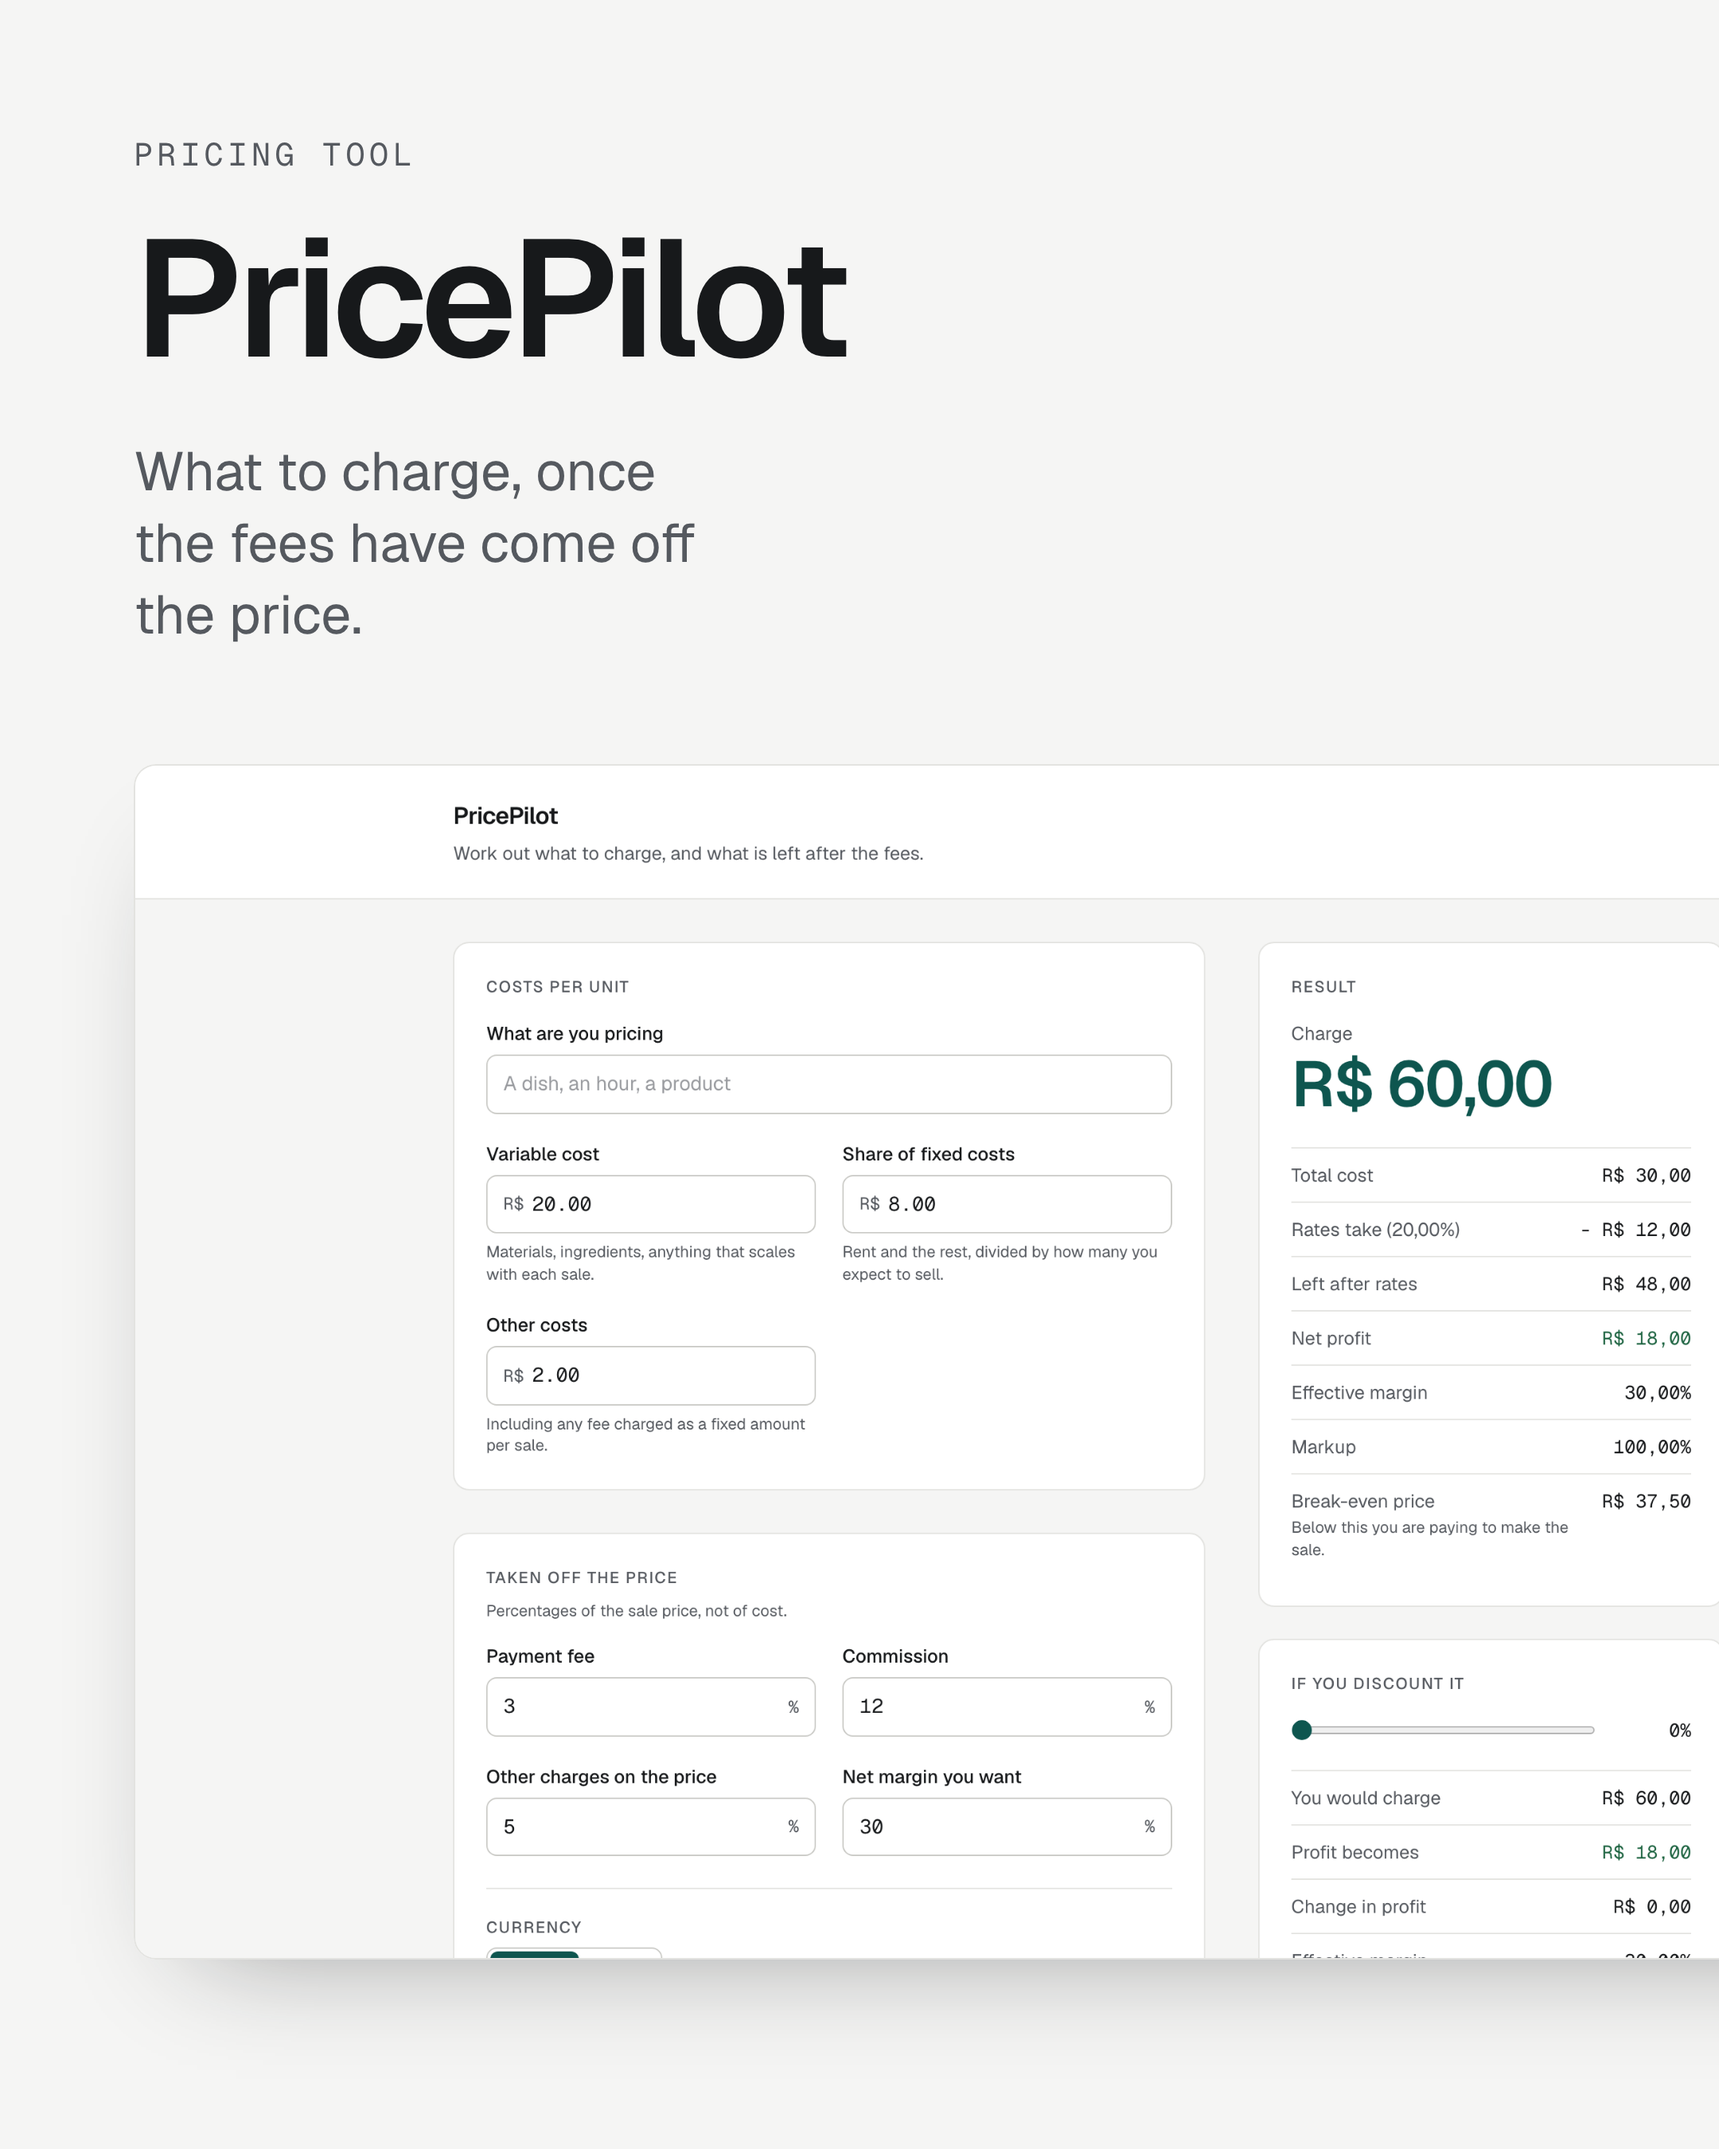
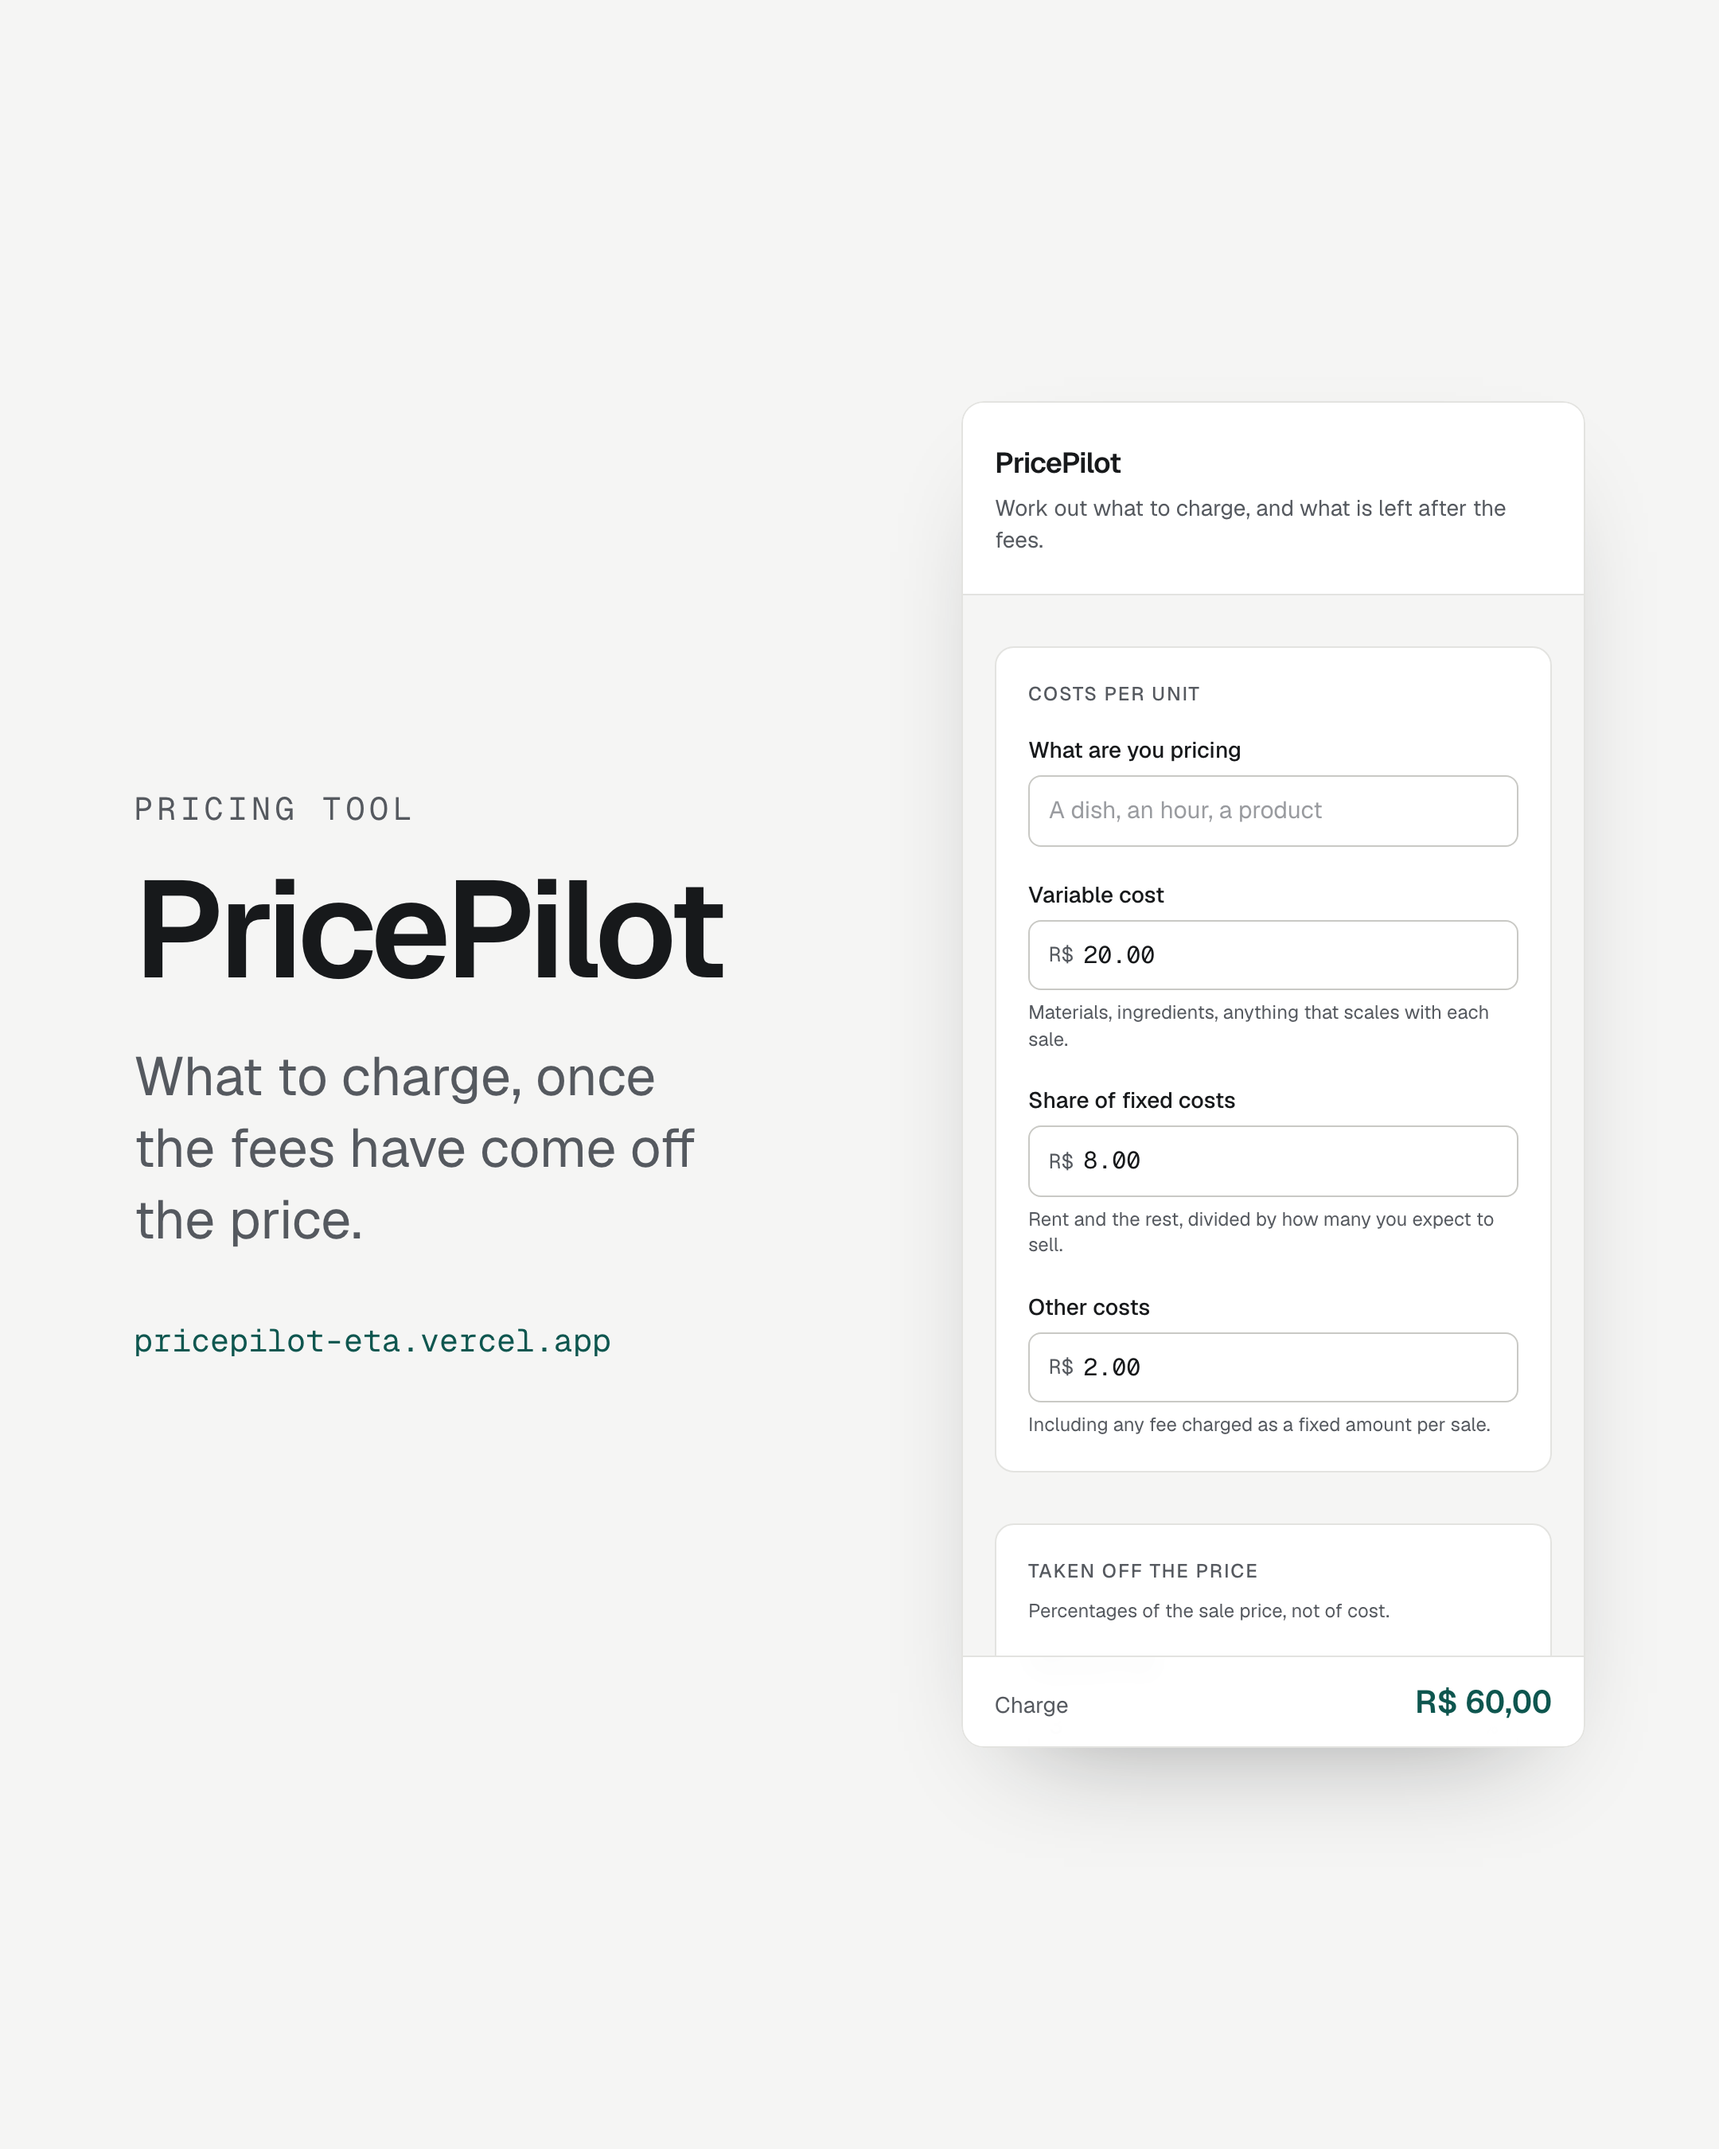
feat: let the accent carry the page instead of appearing once
The interface was near-monochrome: a neutral grey ground with one teal
figure on it. The accent now works in four weights, and the single figure
the tool exists to produce sits in a solid field of it rather than in one
more white card.

- The ground is a paper with a faint teal cast rather than a neutral grey.
- The result panel is inverted onto deep teal: the price in a bright mint,
  the ledger rows in white on the dark field.
- The discount panel is tinted, because it belongs to the result rather
  than to the form.
- The mobile price bar carries the same deep field as the panel whose
  figure it repeats.
- The header opens on an accent rule.

Every pair was measured against WCAG before it was written: 20
foreground/background combinations, the worst at 5.08 against a 4.5
requirement. Two colours needed replacing as a result — the semantic green
and red both fail on the deep field, so good news there is the bright
accent and bad news is a light red that clears AA at 6.90.

Also removed the opacity-based text colours I had reached for first. A
colour expressed as "token at 80%" is hard to verify and easy to get wrong;
these are explicit tokens now.

verify:ui passes at 1440, 768, 390 and 320: zero axe violations, no
overflow, no console output, behaviour unchanged. 77 tests pass.

diff --git a/src/components/results/ResultsPanel.tsx b/src/components/results/ResultsPanel.tsx
@@ -14,8 +14,15 @@ function Row({
   value: string;
   tone?: 'neutral' | 'positive' | 'negative';
 }) {
+  /* On the deep field the semantic greens and reds would fail contrast, so
+     good news is the bright accent and bad news is a light red that clears
+     AA against it. Neutral figures are plain white. */
   const toneClass =
-    tone === 'positive' ? 'text-positive' : tone === 'negative' ? 'text-negative' : 'text-ink';
+    tone === 'positive'
+      ? 'text-accent-bright'
+      : tone === 'negative'
+        ? 'text-on-deep-bad'
+        : 'text-white';
 
   return (
     /*
@@ -27,7 +34,7 @@ function Row({
      * broken definition list.
      */
     <div className="flex items-baseline justify-between gap-4 py-2.5">
-      <dt className="min-w-0 text-sm text-muted">
+      <dt className="min-w-0 text-sm text-on-deep-dim">
         {label}
         {hint ? <span className="mt-0.5 block text-xs leading-snug">{hint}</span> : null}
       </dt>
@@ -51,38 +58,38 @@ export default function ResultsPanel({
   const { currency } = input;
 
   return (
-    <section className="panel p-5 sm:p-6" aria-live="polite">
-      <h2 className="section-title">{t.results.legend}</h2>
+    <section className="panel-deep p-5 sm:p-6" aria-live="polite">
+      <h2 className="section-title text-on-deep-dim">{t.results.legend}</h2>
 
       {problems.length > 0 ? (
-        <div className="mt-4 rounded-field border border-negative/30 bg-negative/5 p-4">
+        <div className="mt-4 rounded-field border border-white/25 bg-white/10 p-4">
           {problems.map((problem) => (
             <p
               key={problem.code}
               data-testid="engine-problem"
-              className="text-sm leading-relaxed text-negative"
+              className="text-sm leading-relaxed text-white"
             >
               {problem.message}
             </p>
           ))}
         </div>
       ) : !priceable || !result ? (
-        <p className="mt-4 text-sm text-muted">{t.results.empty}</p>
+        <p className="mt-4 text-sm text-on-deep-dim">{t.results.empty}</p>
       ) : (
         <>
           {/* The one figure the whole tool exists to produce, sized to say so. */}
           <div className="mt-4">
-            <div className="text-sm text-muted">{t.results.suggestedPrice}</div>
+            <div className="text-sm text-on-deep-dim">{t.results.suggestedPrice}</div>
             <div
               data-testid="suggested-price"
-              className="mt-1 text-4xl font-semibold leading-none tracking-tight text-accent sm:text-5xl"
+              className="mt-1 text-4xl font-semibold leading-none tracking-tight text-accent-bright sm:text-5xl"
             >
               {formatMoney(result.suggestedPrice, currency)}
             </div>
-            {input.name ? <p className="mt-2 text-sm text-muted">{input.name}</p> : null}
+            {input.name ? <p className="mt-2 text-sm text-on-deep-dim">{input.name}</p> : null}
           </div>
 
-          <dl className="mt-6 divide-y divide-line border-t border-line">
+          <dl className="mt-6 divide-y divide-white/15 border-t border-white/15">
             <Row
               label={t.results.totalCost}
               value={formatMoney(result.totalCost, currency)}

diff --git a/src/index.css b/src/index.css
@@ -13,23 +13,36 @@
   --font-sans: 'Geist Variable', ui-sans-serif, system-ui, sans-serif;
   --font-mono: 'Geist Mono Variable', ui-monospace, 'SFMono-Regular', monospace;
 
-  /* Ground and structure. A near-neutral grey, no warm-craft beige. */
-  --color-paper: #f5f5f4;
+  /*
+   * Ground and structure. A paper with a faint teal cast rather than a
+   * neutral grey: the page reads as a made thing instead of a default.
+   */
+  --color-paper: #eceff0;
   --color-surface: #ffffff;
-  --color-line: #e3e3e0;
-  --color-line-strong: #c9c9c5;
+  --color-line: #dde3e2;
+  --color-line-strong: #b9c4c2;
 
-  /* Text. Both greys clear AA on paper and on surface. */
-  --color-ink: #17191b;
-  --color-muted: #55595f;
+  /* Text. Both clear AA on paper, on surface and on the tinted row. */
+  --color-ink: #15201f;
+  --color-muted: #4d5a58;
 
-  /* One accent: a deep teal. Used for the single primary figure and focus. */
-  --color-accent: #0e564f;
-  --color-accent-soft: #e7efed;
+  /*
+   * One accent, in four weights. The deep weight is a field the result sits
+   * in, not an outline — the single figure the tool exists to produce gets a
+   * solid plane of colour, and everything else stays quiet around it.
+   */
+  --color-accent: #0b5349;
+  --color-accent-deep: #083f38;
+  --color-accent-soft: #dcebe6;
+  --color-accent-bright: #8ee0cd;
+  --color-on-deep: #cfe4df;
+  --color-on-deep-dim: #a9ccc5;
+  /* Bad news on the deep field: the semantic red fails there, this clears AA. */
+  --color-on-deep-bad: #ffb3a8;
 
   /* Semantic, used only on numbers that are genuinely good or bad news. */
-  --color-positive: #1c6340;
-  --color-negative: #9d2f28;
+  --color-positive: #17603c;
+  --color-negative: #962a22;
 
   --radius-field: 0.5rem;
   --radius-panel: 0.75rem;
@@ -64,6 +77,14 @@ body {
 }
 
 /* Section headings inside the tool: small, uppercase, quiet. No numbering. */
+/* The inverted panel. Used once, for the figure the tool exists to produce. */
+@utility panel-deep {
+  background-color: var(--color-accent-deep);
+  border: 1px solid var(--color-accent-deep);
+  border-radius: var(--radius-panel);
+  color: var(--color-on-deep);
+}
+
 @utility section-title {
   font-size: 0.75rem;
   font-weight: 500;

diff --git a/src/App.tsx b/src/App.tsx
@@ -67,7 +67,7 @@ export default function App() {
 
   return (
     <div className="min-h-dvh">
-      <header className="border-b border-line bg-surface">
+      <header className="border-b-2 border-accent bg-surface">
         <div className="mx-auto max-w-5xl px-5 py-6 sm:px-8">
           <h1 className="text-lg font-semibold tracking-tight">{t.appName}</h1>
           <p className="mt-1 max-w-prose text-sm text-muted">{t.tagline}</p>
@@ -126,11 +126,11 @@ export default function App() {
       {result ? (
         <div
           aria-hidden="true"
-          className="price-bar fixed inset-x-0 bottom-0 border-t border-line bg-surface/95 backdrop-blur-sm lg:hidden"
+          className="price-bar fixed inset-x-0 bottom-0 bg-accent-deep lg:hidden"
         >
           <div className="mx-auto flex max-w-5xl items-baseline justify-between gap-4 px-5 py-3.5 sm:px-8">
-            <span className="text-sm text-muted">{t.results.suggestedPrice}</span>
-            <span className="text-xl font-semibold text-accent">
+            <span className="text-sm text-on-deep-dim">{t.results.suggestedPrice}</span>
+            <span className="text-xl font-semibold text-accent-bright">
               {formatMoney(result.suggestedPrice, form.currency)}
             </span>
           </div>

diff --git a/src/components/results/DiscountControl.tsx b/src/components/results/DiscountControl.tsx
@@ -29,7 +29,7 @@ export default function DiscountControl({
   const id = useId();
 
   return (
-    <section className="panel mt-6 p-5 sm:p-6">
+    <section className="panel mt-6 bg-accent-soft p-5 sm:p-6">
       <h2 className="section-title">{t.discount.legend}</h2>
 
       <div className="mt-4 flex items-center gap-4">
@@ -44,7 +44,7 @@ export default function DiscountControl({
           step={1}
           value={value}
           onChange={(event) => onChange(Number(event.target.value))}
-          className="h-1.5 w-full cursor-pointer accent-accent"
+          className="h-1.5 w-full cursor-pointer accent-accent-deep"
         />
         {/* A visual echo of the slider, which announces its own value. Left
             out of the accessibility tree so the figure is not read twice. */}
